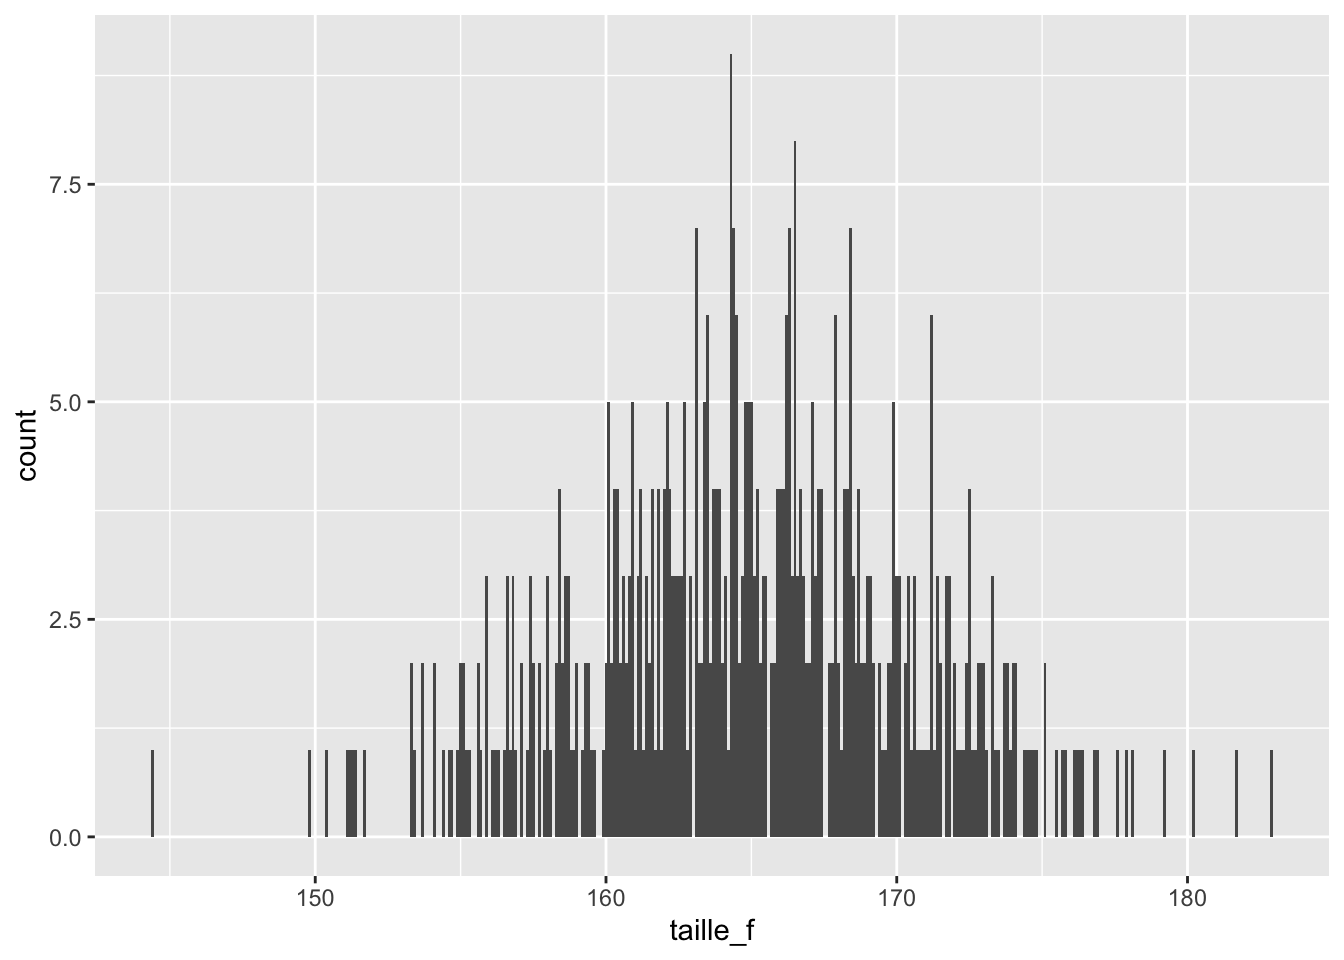
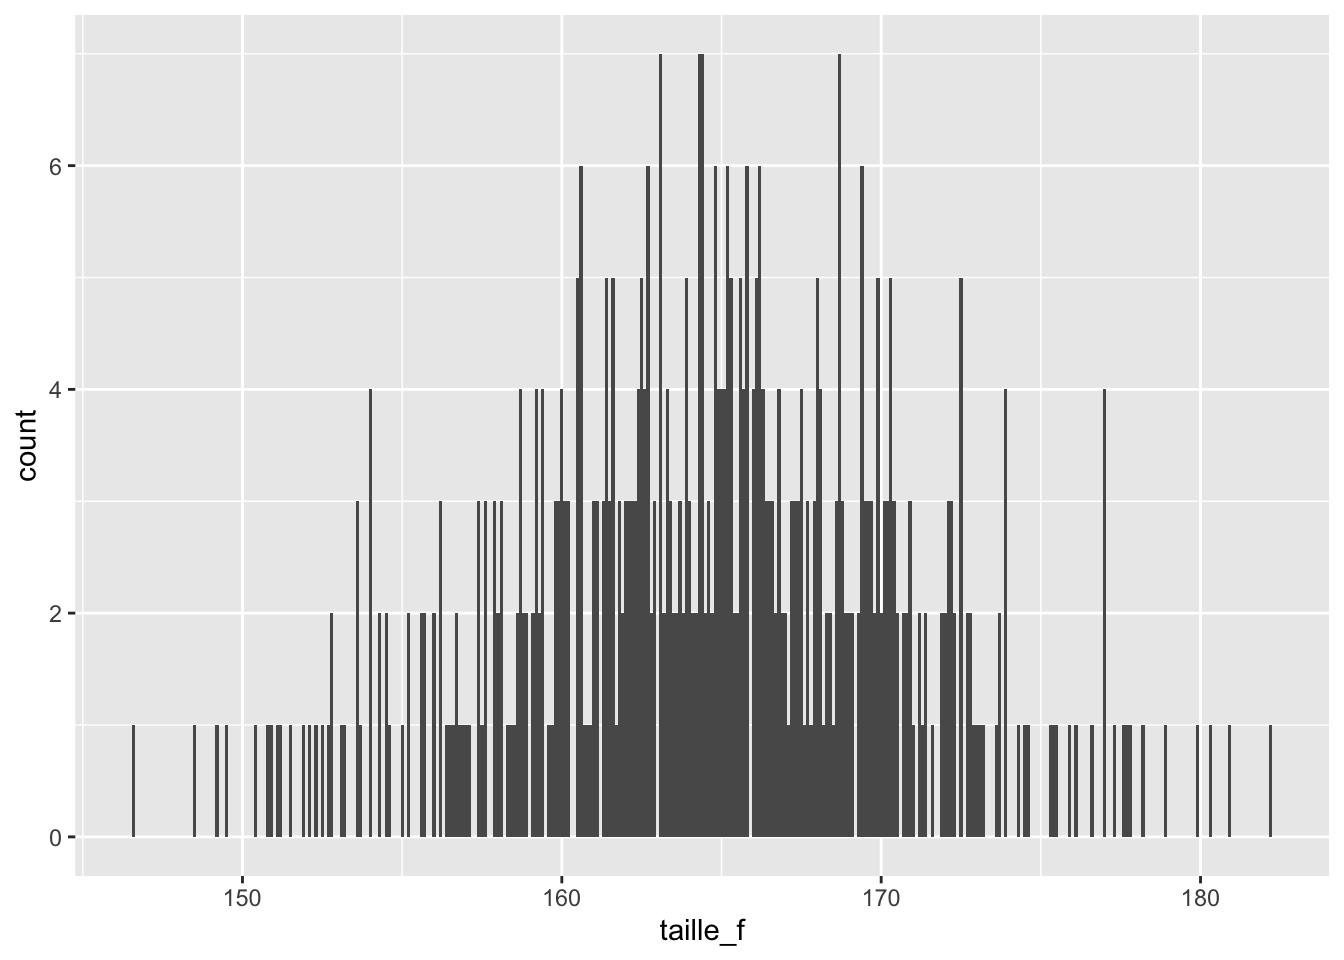
session 11 v1

diff --git a/index.html b/index.html
@@ -1734,7 +1734,7 @@ Attention
 <span id="cb100-5"><a href="#cb100-5" aria-hidden="true" tabindex="-1"></a></span>
 <span id="cb100-6"><a href="#cb100-6" aria-hidden="true" tabindex="-1"></a><span class="fu">head</span>(taille_f)</span></code><button title="Copy to Clipboard" class="code-copy-button"><i class="bi"></i></button></pre></div>
 <div class="cell-output cell-output-stdout">
-<pre><code>[1] 164.6193 164.7676 167.7734 162.1687 163.7841 164.0025</code></pre>
+<pre><code>[1] 164.0835 149.4676 169.6345 165.5636 164.8009 153.5604</code></pre>
 </div>
 <div class="sourceCode cell-code" id="cb102"><pre class="sourceCode r code-with-copy"><code class="sourceCode r"><span id="cb102-1"><a href="#cb102-1" aria-hidden="true" tabindex="-1"></a><span class="co"># stocker taille_f comme objet de type 'data.frame'</span></span>
 <span id="cb102-2"><a href="#cb102-2" aria-hidden="true" tabindex="-1"></a>taille_f <span class="ot">&lt;-</span> <span class="fu">as.data.frame</span>(taille_f)</span>
